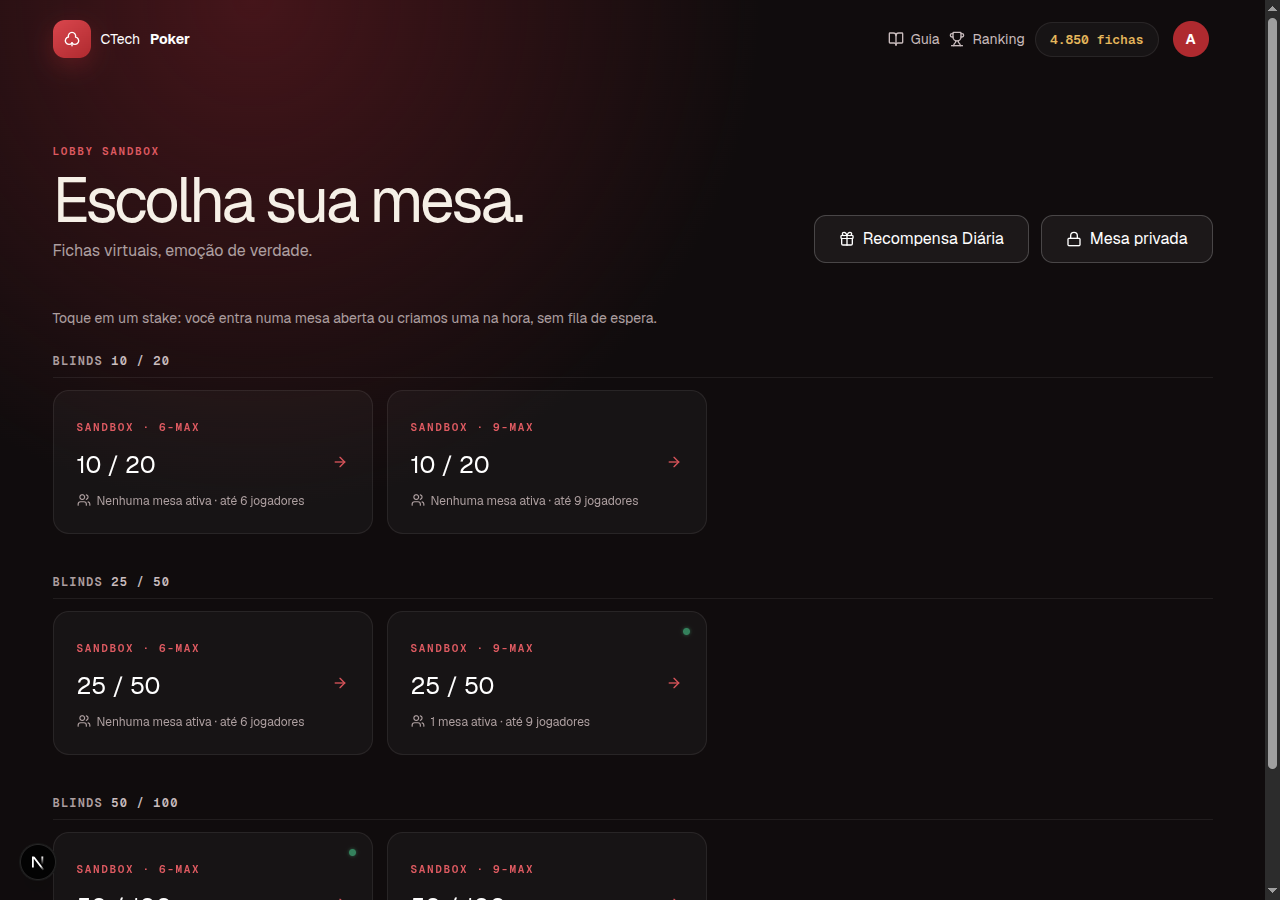
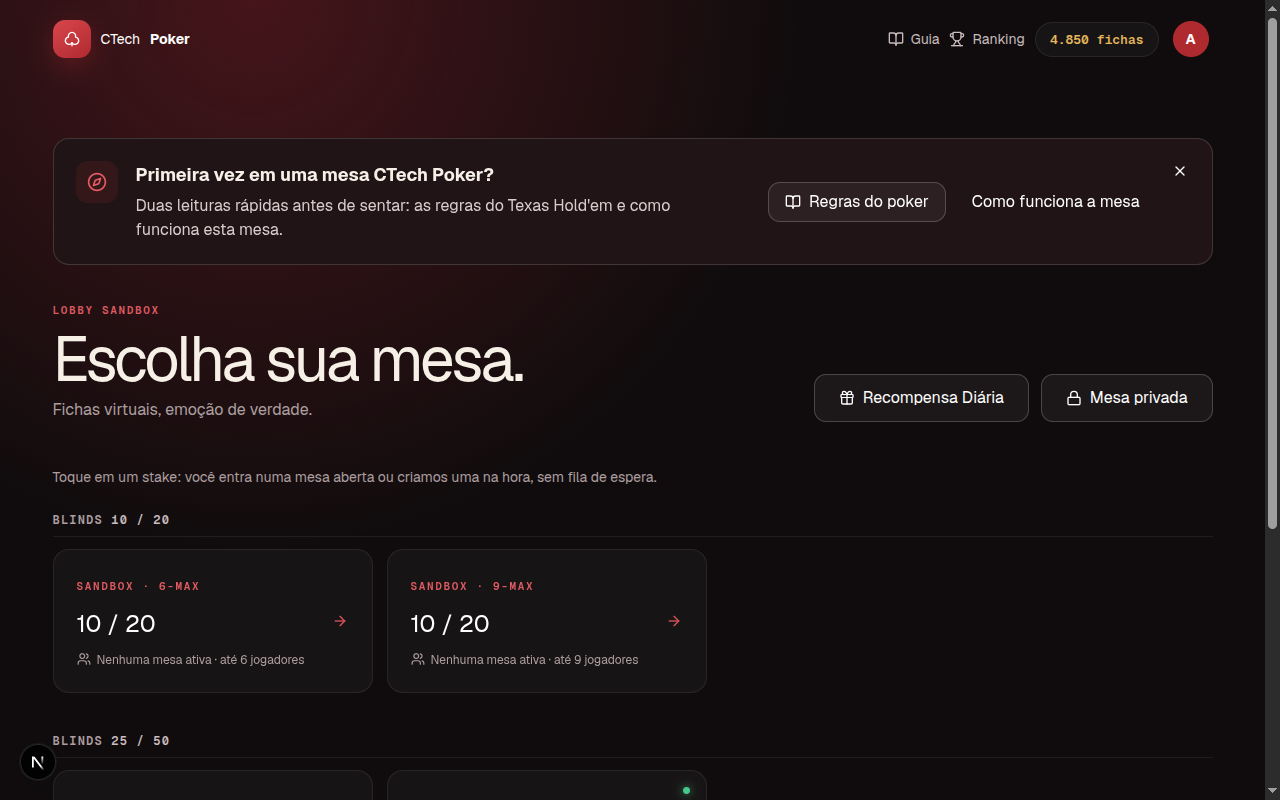
feat(ui): added better experience

diff --git a/ui/src/app/globals.css b/ui/src/app/globals.css
@@ -588,6 +588,99 @@ h1 em {
     font-size: 14px
 }
 
+.showcase {
+    padding-block: 20px 90px;
+    display: grid;
+    grid-template-columns: .85fr 1.4fr;
+    gap: 64px;
+    align-items: center
+}
+
+.showcase-copy h2 {
+    font-size: clamp(30px, 3.4vw, 44px);
+    letter-spacing: -.04em;
+    margin: 0 0 14px
+}
+
+.showcase-copy p {
+    color: var(--muted);
+    line-height: 1.65;
+    max-width: 40ch
+}
+
+.showcase-copy > a {
+    display: inline-flex;
+    align-items: center;
+    gap: 6px;
+    margin-top: 22px;
+    color: var(--brand-bright-4);
+    text-decoration: none;
+    font: 600 var(--font-size-label) inherit
+}
+
+.showcase-copy > a svg {
+    width: 16px
+}
+
+.showcase-frame {
+    position: relative;
+    border-radius: var(--rounded-panel);
+    overflow: hidden;
+    border: 1px solid var(--control-border);
+    background: var(--surface-control);
+    box-shadow: 0 40px 90px var(--black-08);
+    transform: rotate(-1.2deg);
+    animation: rise .8s var(--ease-out-quint) both;
+    animation-delay: 120ms
+}
+
+.browser-chrome {
+    display: flex;
+    align-items: center;
+    gap: 6px;
+    padding: 11px 16px;
+    background: var(--surface-seat);
+    border-bottom: 1px solid var(--white-13)
+}
+
+.browser-chrome span {
+    width: 8px;
+    height: 8px;
+    border-radius: 50%;
+    background: var(--white-1c)
+}
+
+.browser-chrome small {
+    margin-left: 10px;
+    color: var(--neutral-rose-3);
+    font: 600 11px var(--font-mono)
+}
+
+.showcase-frame > img {
+    display: block;
+    width: 100%;
+    height: auto
+}
+
+.showcase-peek {
+    position: absolute;
+    width: 220px;
+    right: -26px;
+    bottom: -26px;
+    margin: 0;
+    border-radius: var(--rounded-sm);
+    overflow: hidden;
+    border: 1px solid var(--control-border);
+    box-shadow: 0 20px 45px var(--black-08);
+    animation: float 5s ease-in-out infinite
+}
+
+.showcase-peek img {
+    display: block;
+    width: 100%;
+    height: auto
+}
+
 .cta {
     margin-block: 60px 100px;
     padding: 46px 52px;
@@ -853,6 +946,25 @@ h1 em {
 
     .cta {
         gap: 30px
+    }
+
+    .showcase {
+        grid-template-columns: 1fr;
+        text-align: center
+    }
+
+    .showcase-copy p {
+        margin-inline: auto
+    }
+
+    .showcase-frame {
+        transform: none
+    }
+
+    .showcase-peek {
+        width: 170px;
+        right: -12px;
+        bottom: -18px
     }
 
     .nav-links > a {

diff --git a/ui/src/app/guide/page.tsx b/ui/src/app/guide/page.tsx
@@ -62,16 +62,47 @@ export default function Guide() {
 
       <article className="guide-section reverse">
         <div>
-          <h2>Como jogar</h2>
-          <p>Na sua vez, a barra de ações na parte inferior mostra o que você pode fazer — as opções disponíveis
-            mudam conforme o estado da mão. Use o botão <b>?</b> no cabeçalho da mesa para consultar o ranking de
-            mãos sem sair do jogo.</p>
-          <p>Quer entender as regras completas por trás de cada ação? Veja o <Link href="/poker-rules">guia de
-            regras</Link>.</p>
+          <h2>Como agir na sua vez</h2>
+          <p>Na sua vez, a borda dourada marca o seu assento e a barra de ações aparece na parte inferior — as
+            opções disponíveis mudam conforme o estado da mão. <b>Fold</b> desiste, <b>Check</b> passa a vez sem
+            apostar, <b>Pagar</b> cobre a aposta em aberto e <b>Aumentar</b> eleva o valor com atalhos de
+            meio pote, pote cheio ou all-in (máx).</p>
+          <p>Prefere o teclado? As letras nos botões — <b>F</b>, <b>C</b>, <b>P</b>, <b>R</b> — são os atalhos.
+            Sua força de mão estimada aparece junto às suas cartas, e o botão <b>?</b> no cabeçalho abre o ranking
+            de mãos sem sair do jogo.</p>
         </div>
         <figure className="guide-shot">
-          <Image src="/guide/table.png" alt="Mesa em andamento com a barra de ações disponível" width={1280}
-            height={800}/>
+          <Image src="/guide/table-preflop.png" alt="Mesa no pré-flop com a barra de ações e a força da mão do jogador"
+            width={1280} height={800}/>
+        </figure>
+      </article>
+
+      <article className="guide-section">
+        <div>
+          <h2>Flop, turn e river</h2>
+          <p>A cada rodada de apostas concluída, uma nova carta comunitária entra no centro da mesa: três no flop,
+            mais uma no turn e a última no river. O pote e o rake ficam sempre visíveis ao lado das cartas, e cada
+            assento mostra um anel de contagem regressiva quando é a vez de agir — perder o prazo passa a vez
+            automaticamente.</p>
+        </div>
+        <figure className="guide-shot">
+          <Image src="/guide/table-flop.png" alt="Mesa no flop com três cartas comunitárias reveladas"
+            width={1280} height={800}/>
+        </figure>
+      </article>
+
+      <article className="guide-section reverse">
+        <div>
+          <h2>Showdown e pote lateral</h2>
+          <p>Se mais de um jogador chegar ao showdown, as cartas de cada um ficam visíveis e a melhor combinação de
+            5 cartas leva o pote. Quando alguém vai all-in com menos fichas que os demais, a mesa divide o pote em
+            pote principal e pote lateral — cada jogador só concorre ao que apostou.</p>
+          <p>Quer entender as regras completas por trás de cada fase e o ranking de mãos? Veja o
+            <Link href="/poker-rules"> guia de regras</Link>.</p>
+        </div>
+        <figure className="guide-shot">
+          <Image src="/guide/table-showdown.png" alt="Showdown com as cartas de todos os jogadores reveladas"
+            width={1280} height={800}/>
         </figure>
       </article>
     </section>

diff --git a/ui/src/app/page.tsx b/ui/src/app/page.tsx
@@ -49,6 +49,23 @@ export default function Home() {
         <div><Icon/></div>
         <h3>{title}</h3><p>{body}</p></article>)}</div>
     </section>
+    <section className="showcase shell">
+      <div className="showcase-copy">
+        <h2>A mesa de verdade, sem instalar nada.</h2>
+        <p>Direto do navegador: cartas, fichas, cronômetro de ação e chat, exatamente como você vai jogar. Sem
+          apps, sem downloads, sem cliente pesado para atualizar.</p>
+        <Link href="/guide">Ver o guia completo <ArrowRight/></Link>
+      </div>
+      <div className="showcase-frame">
+        <div className="browser-chrome"><span/><span/><span/><small>ctechpoker.app/mesa</small></div>
+        <Image src="/guide/table-flop.png" alt="Mesa real do CTech Poker em andamento, com cartas comunitárias e barra de ações"
+          width={1280} height={800}/>
+        <figure className="showcase-peek">
+          <Image src="/guide/lobby.png" alt="Lobby do CTech Poker com mesas agrupadas por stake" width={640}
+            height={400}/>
+        </figure>
+      </div>
+    </section>
     <section className="cta shell">
       <div><h2>Comece uma mesa em minutos.</h2><p>Entre com sua conta CTech e jogue de graça no sandbox.</p></div>
       <Button variant="light" size="lg" onClick={() => startOAuthFlow('/lobby')}>Jogar agora <ArrowRight/></Button>

diff --git a/ui/src/lib/hooks/useTableRealtime.ts b/ui/src/lib/hooks/useTableRealtime.ts
@@ -81,7 +81,14 @@ function describeSnapshot(previous: TableSnapshot | null, next: TableSnapshot, v
 function playSoundForTransition(previous: TableSnapshot | null, next: TableSnapshot) {
   if (!previous) return;
   if (next.board.length > previous.board.length) {
-    playSound(previous.board.length === 0 ? 'dealing' : 'reveal');
+    const added = next.board.length - previous.board.length;
+    // Flop deals 3 cards one at a time (Board/PlayingCard stagger reveal
+    // animation-delay by 220ms per index) — one reveal sound per card, timed
+    // to match. Turn/river add a single card with no stagger.
+    for (let i = 0; i < added; i++) {
+      if (i === 0) playSound('reveal');
+      else setTimeout(() => playSound('reveal'), i * 220);
+    }
     return;
   }
   const previousSeats = new Map(previous.seats.map(seat => [seat.player_id, seat]));

diff --git a/ui/src/lib/sound.ts b/ui/src/lib/sound.ts
@@ -1,9 +1,8 @@
-export type SoundName = 'reveal' | 'showing_card' | 'dealing' | 'half_pot' | 'all_in' | 'bet';
+export type SoundName = 'reveal' | 'showing_card' | 'half_pot' | 'all_in' | 'bet';
 
 const FILES: Record<SoundName, string[]> = {
   reveal: ['/sounds/revealing-card-table.mp3'],
   showing_card: ['/sounds/player-showing-card.mp3'],
-  dealing: ['/sounds/cards-on-table.mp3'],
   half_pot: ['/sounds/half-pot-chips.mp3'],
   all_in: ['/sounds/all-in-chips.mp3'],
   bet: ['/sounds/basic-chips-1.mp3', '/sounds/basic-chips-2.mp3']